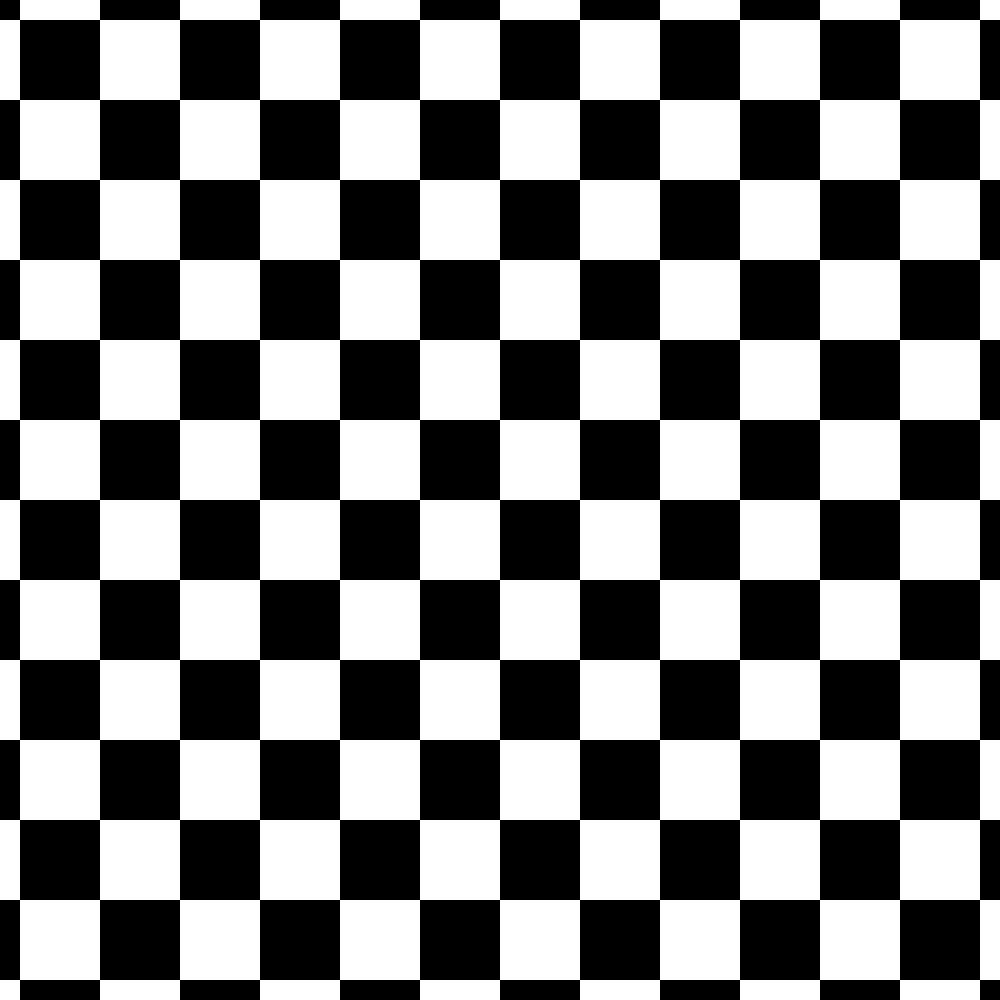
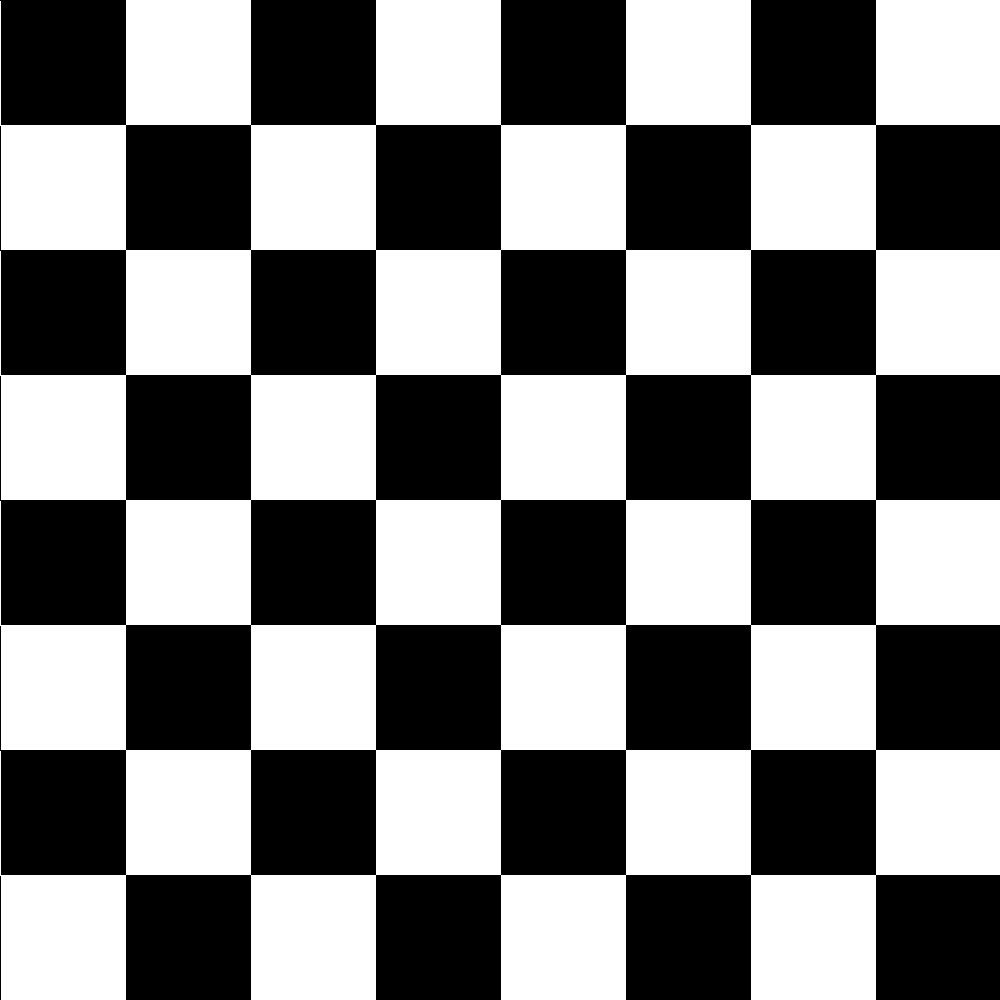
Fixed Camera Scale

diff --git a/RayTracer/Render.h b/RayTracer/Render.h
@@ -272,7 +272,7 @@ public:
 					}
 					else if (hit) {
 						//without 
-						screen_matrix[px] = std::static_pointer_cast<plane>(element)->getColor(hitPoint,0.01 / 0.125);
+						screen_matrix[px] = std::static_pointer_cast<plane>(element)->getColor(hitPoint, (hitPoint.z-camera.pos.z)/2 );
 						break;
 					}
 					else {
